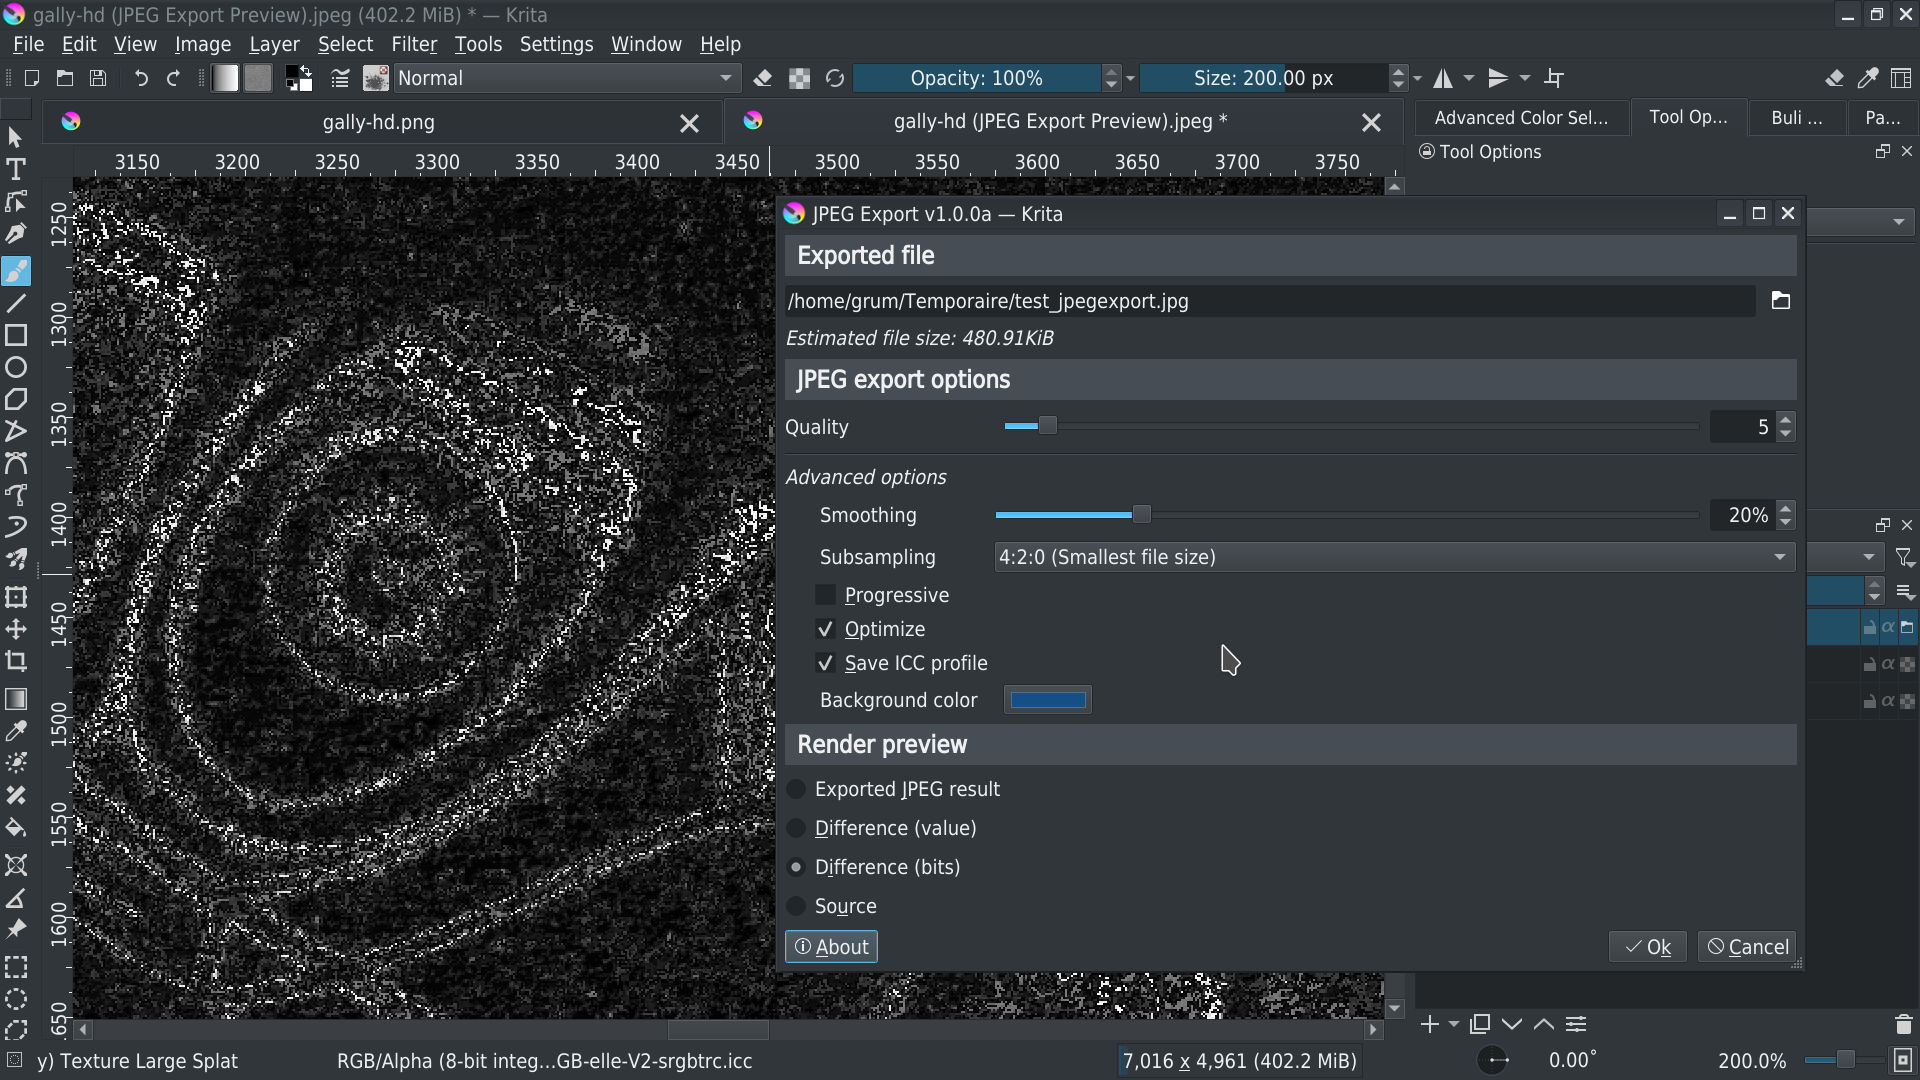
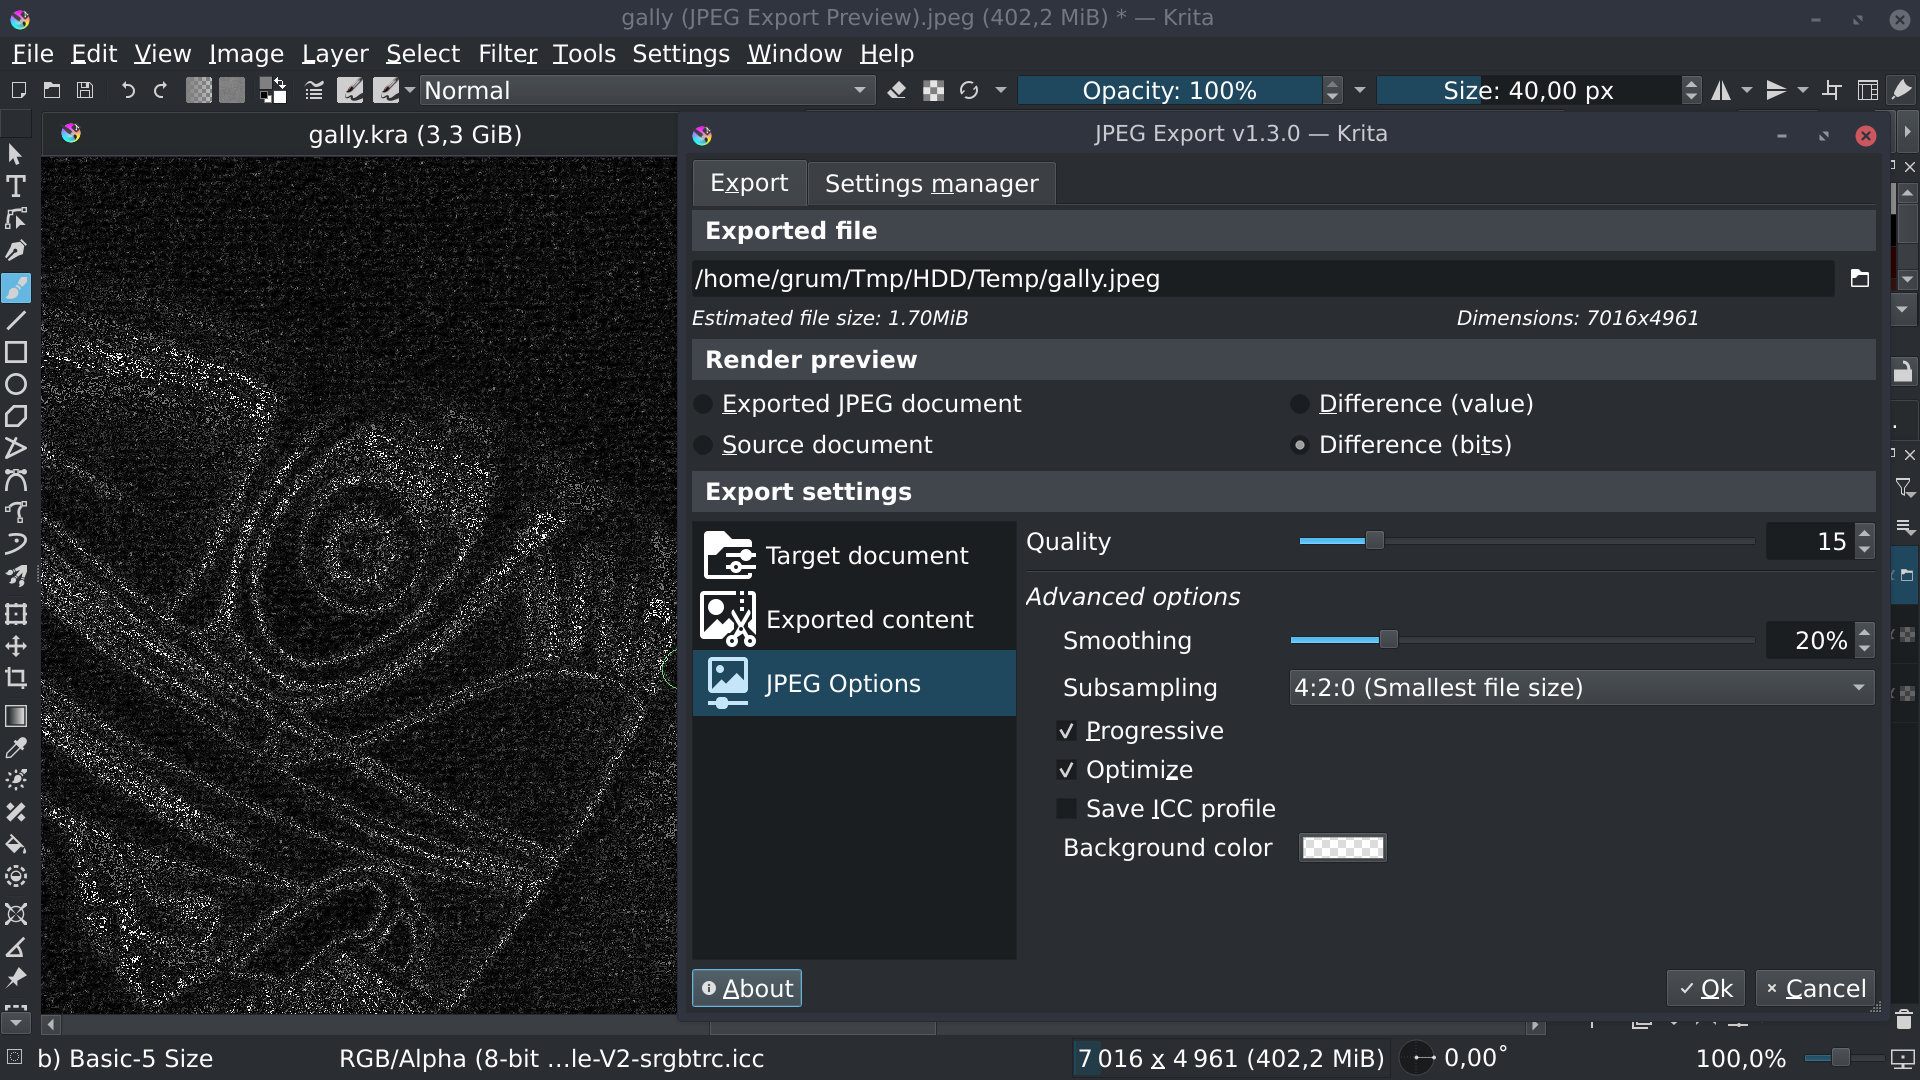
Release 1.3.0
- update readme
- prepare release note

diff --git a/releases-notes/RELEASE-1.3.0.md b/releases-notes/RELEASE-1.3.0.md
@@ -1,0 +1,78 @@
+# JPEG Export :: Release 1.3.0 [2024-02-27]
+
+# Main Interface
+
+## Implement *Improve UI*
+
+Window size has been reduced to let it open on smaller screens. 
+Then, to be able to put all options (and taking in account new one), the user interface has been reviewed. 
+
+![Main interface](https://github.com/Grum999/JPEGExport/raw/main/screenshots/r1-3-0_mainwindow.jpeg)
+
+| Reference | Description                                                |
+|-----------|------------------------------------------------------------|
+| 1         | Access to export settings & settings manager through tabs |
+| 2         | Access to miscellaneous export settings<br><br>*Crop & Resize options*<br>![Main interface](https://github.com/Grum999/JPEGExport/raw/main/screenshots/r1-3-0_mainwindow_exportedContent.jpeg)<br>*Crop & Resize options*<br>![Main interface](https://github.com/Grum999/JPEGExport/raw/main/screenshots/r1-3-0_mainwindow_jpegOptions.jpeg) |
+
+
+[Feature #5](https://github.com/Grum999/JPEGExport/issues/5)
+
+## Implement *Allow to define target path*
+
+Options to define target document path allows to quickly define default path where document will be saved
+
+![Main interface](https://github.com/Grum999/JPEGExport/raw/main/screenshots/r1-3-0_mainwindow_targetDocument.jpeg)
+
+| Target path                   | Description                                                                                   |
+|-------------------------------|-----------------------------------------------------------------------------------------------|
+| **Same source than document** | Default path defined for exported JPEG document will be the same than original source file    |
+| **Last used directory**       | Default path defined for exported JPEG document will be the same than one used on last export |
+| **User defined**              | Default path defined for exported JPEG document will be the one defined by user               |
+
+> Note:
+> Changing option value when path is already defined will automatically apply new path from selected option 
+
+[Feature #6](https://github.com/Grum999/JPEGExport/issues/6)
+
+
+## Implement *Settings manager*
+
+The *Settings manager* let the possibility to manage different export options according to final use of JPEG file.
+
+![Main interface](https://github.com/Grum999/JPEGExport/raw/main/screenshots/r1-3-0_mainwindow_settingsManager.jpeg)
+
+| Reference | Description                                                                                                                                                                                                           |
+|-----------|-----------------------------------------------------------------------------------------------------------------------------------------------------------------------------------------------------------------------|
+| 1         | Manage settings import/export<br>- New setting pool<br>- Import a setting pool<br>- Export settings pool<br><br>This can be useful to manage backup files or easily use the same settings across different computers  |
+| 2         | Manage settings<br>- Create a new settings from current export setup<br>- Create a new folder<br>- Edit selected item<br>- Delete selected item                                                                       |                                                                     
+| 3         | Apply selected settings<br>*Settings will be applied for export setup*                                                                                                                                                |  
+| 4         | Pool settings<br>Drag'n'Drop to reorganise items                                                                                                                                                                      |
+| 5         | Current settings pool file                                                                                                                                                                                            |    
+
+Editing a settings in pool allow to define:
+- Title
+- Icon
+- Description
+
+![Main interface](https://github.com/Grum999/JPEGExport/raw/main/screenshots/r1-3-0_mainwindow_settingsManager_edit1.jpeg)
+
+Export setup properties for settings are visible in *Setup preview*  
+
+![Main interface](https://github.com/Grum999/JPEGExport/raw/main/screenshots/r1-3-0_mainwindow_settingsManager_edit2.jpeg)
+
+[Feature #4](https://github.com/Grum999/JPEGExport/issues/4)
+
+## Implement *Keep window position*
+
+Last *JPEG Export* main window position & size are kept and re-used on next plugin use.
+
+[Feature #1](https://github.com/Grum999/JPEGExport/issues/1)
+
+# Fix bugs
+
+## User interface - *Save window is behind*
+
+On Windows, the *save* dialog box was stucked behind main plugin window.
+This is now fixed.
+
+[Bug #2](https://github.com/Grum999/JPEGExport/issues/2)

diff --git a/README.md b/README.md
@@ -27,17 +27,20 @@ Basically, the plugin use Krita JPEG export capabilities, but add an improved in
 
 Here the list of functionalities:
 - Provides most of JPEG export options
-- Real time (~1s) export result preview
-- Exported result preview is rendered in a Krita view
-  - *Allows to zoom and scroll on export result preview to check for JPEG compression artifacts*
-- Exported JPEG file size provided
+- Real time (~1s) export result preview in a Krita view
+  - *Allows to zoom and scroll export result preview to check for JPEG compression artifacts*
 - Different render modes (Final result, difference with source)
-
+- Ability to export selected area only
+- Ability to resize exported document from given dimension constraint
+  - Maximum width, Maximum height, Bounding box, Percent of original size
+  - Choice of resampling method
+- Exported JPEG file size & dimensions provided
+- Ability to save/load different settings
 
 ## Download, Install & Execute
 
 ### Download
-+ **[ZIP ARCHIVE - v1.2.1](https://github.com/Grum999/JPEGExport/releases/download/1.2.1/jpegexport.zip)**
++ **[ZIP ARCHIVE - v1.3.0](https://github.com/Grum999/JPEGExport/releases/download/1.3.0/jpegexport.zip)**
 + **[SOURCE](https://github.com/Grum999/JPEGExport)**
 
 
@@ -53,20 +56,23 @@ Plugin installation in [Krita](https://krita.org) is not intuitive and needs som
 
 ### Execute
 
-User of Krita 4: go to **Tools**>**Scripts** menu and select **JPEG Export...**
-
-User of Krita 5: go to **File** menu and select **JPEG Export...**
-
+Go in **File** menu and select **JPEG Export...** sub-menu
 
 ### Tested platforms
 
-Version 1.2.1 requires Krita 5.2
-Version 1.2.0 requires Krita 5.1
+Version 1.3.0 requires at least Krita 5.2
 
 
 ## Plugin's life
 
 ### What's new?
+
+_[2024-02-27] Version 1.3.0_ [>> Show detailed release content <<](./releases-notes/RELEASE-1.3.0.md)
+- Implement *Improve UI*
+- Implement *Allow to define target path*
+- Implement *Settings manager*
+- Implement *Keep window position*
+- Fix bug *Save window is behind*
 
 _[2023-05-09] Version 1.2.1_ [>> Show detailed release content <<](./releases-notes/RELEASE-1.2.1.md)
 - Fix bug *Krita 5.2.0 Compatibility*
